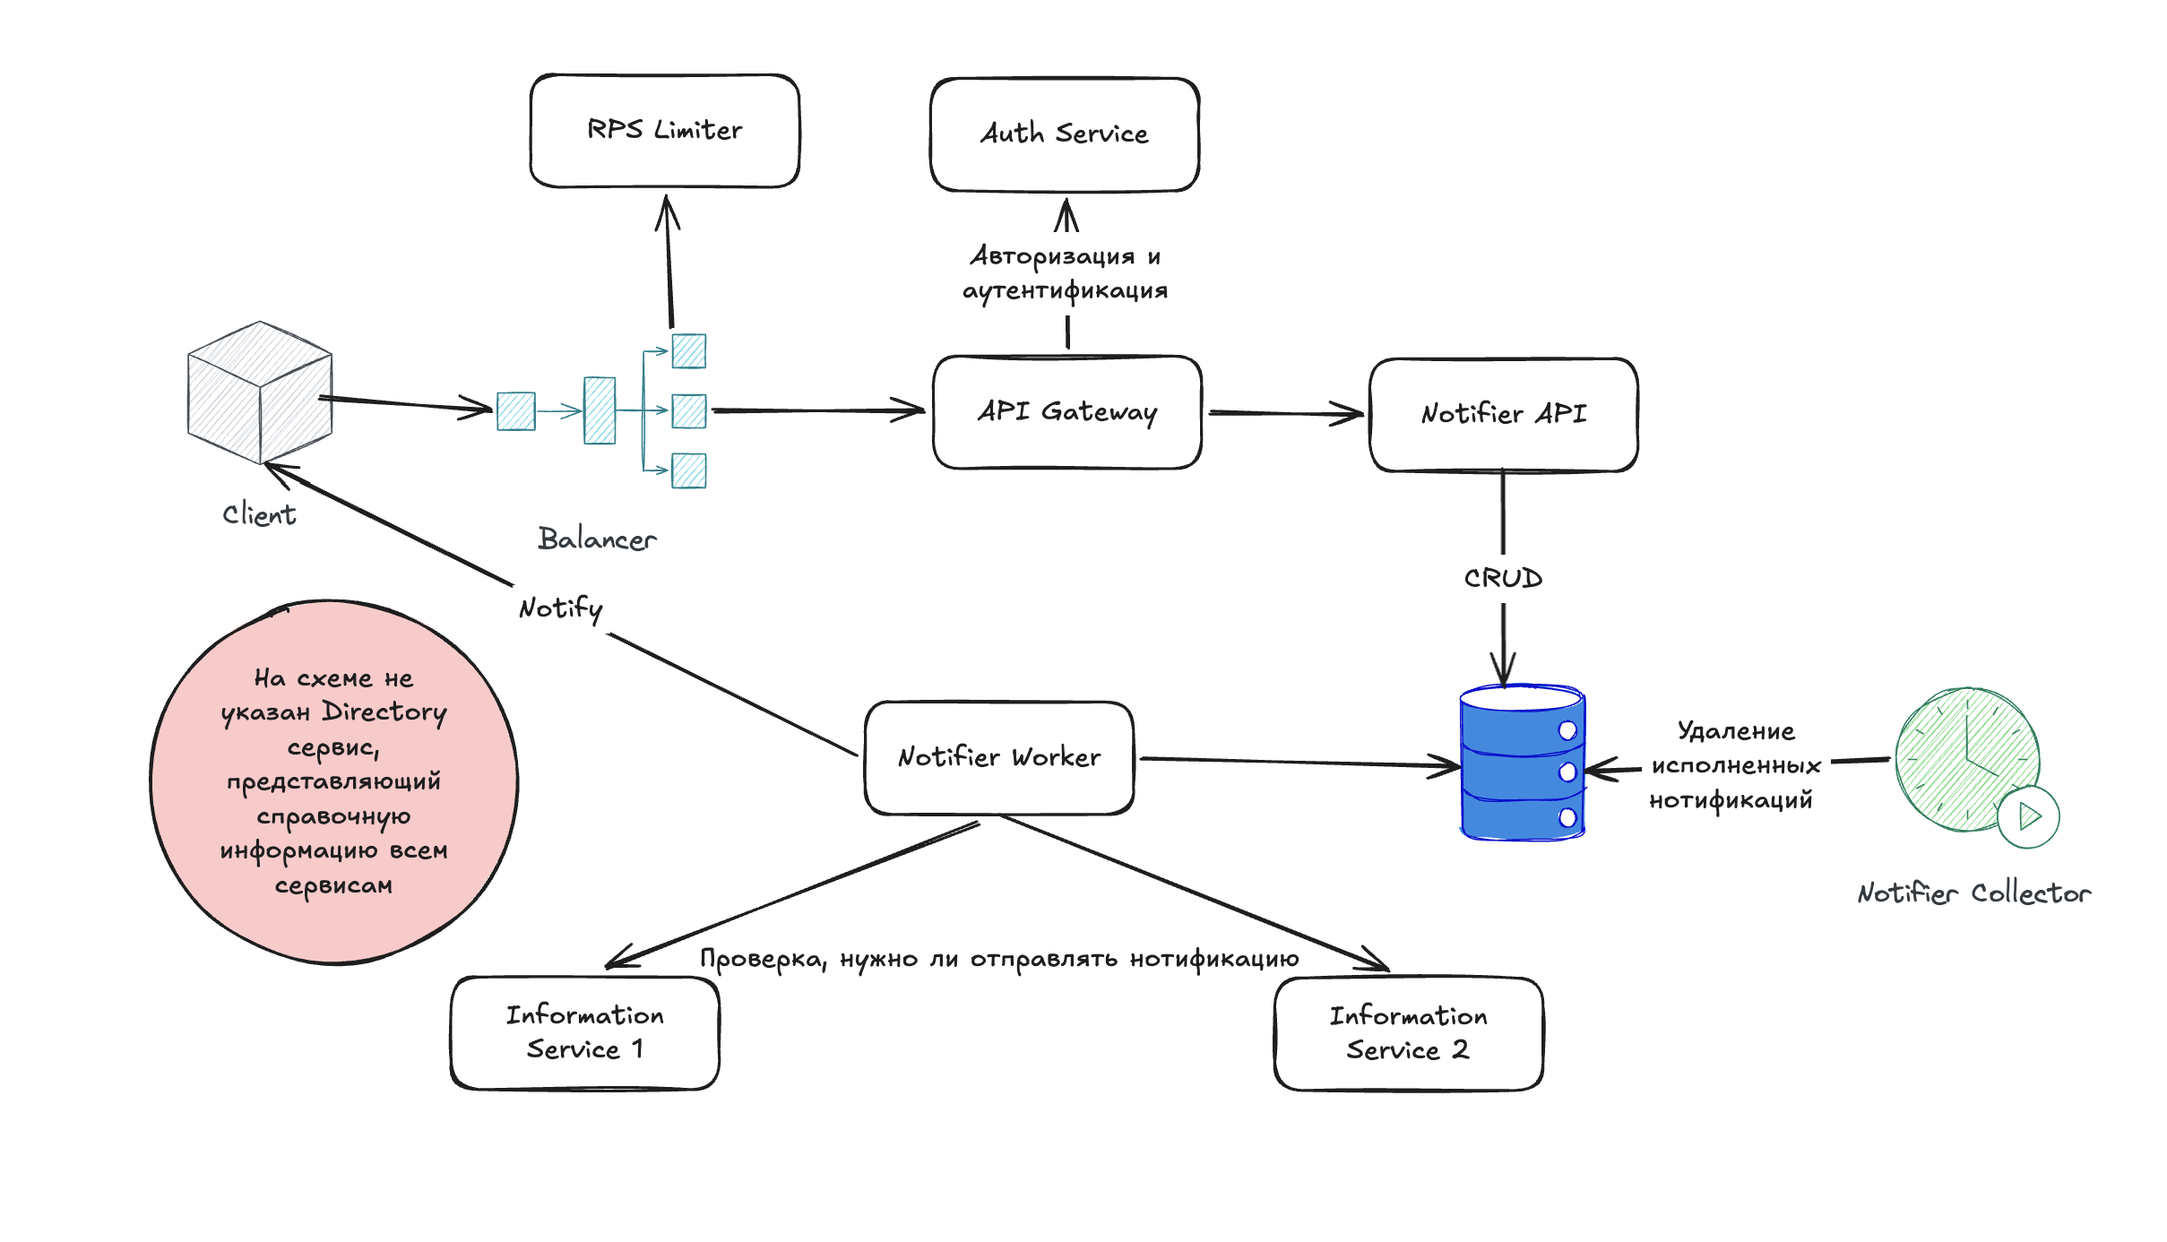
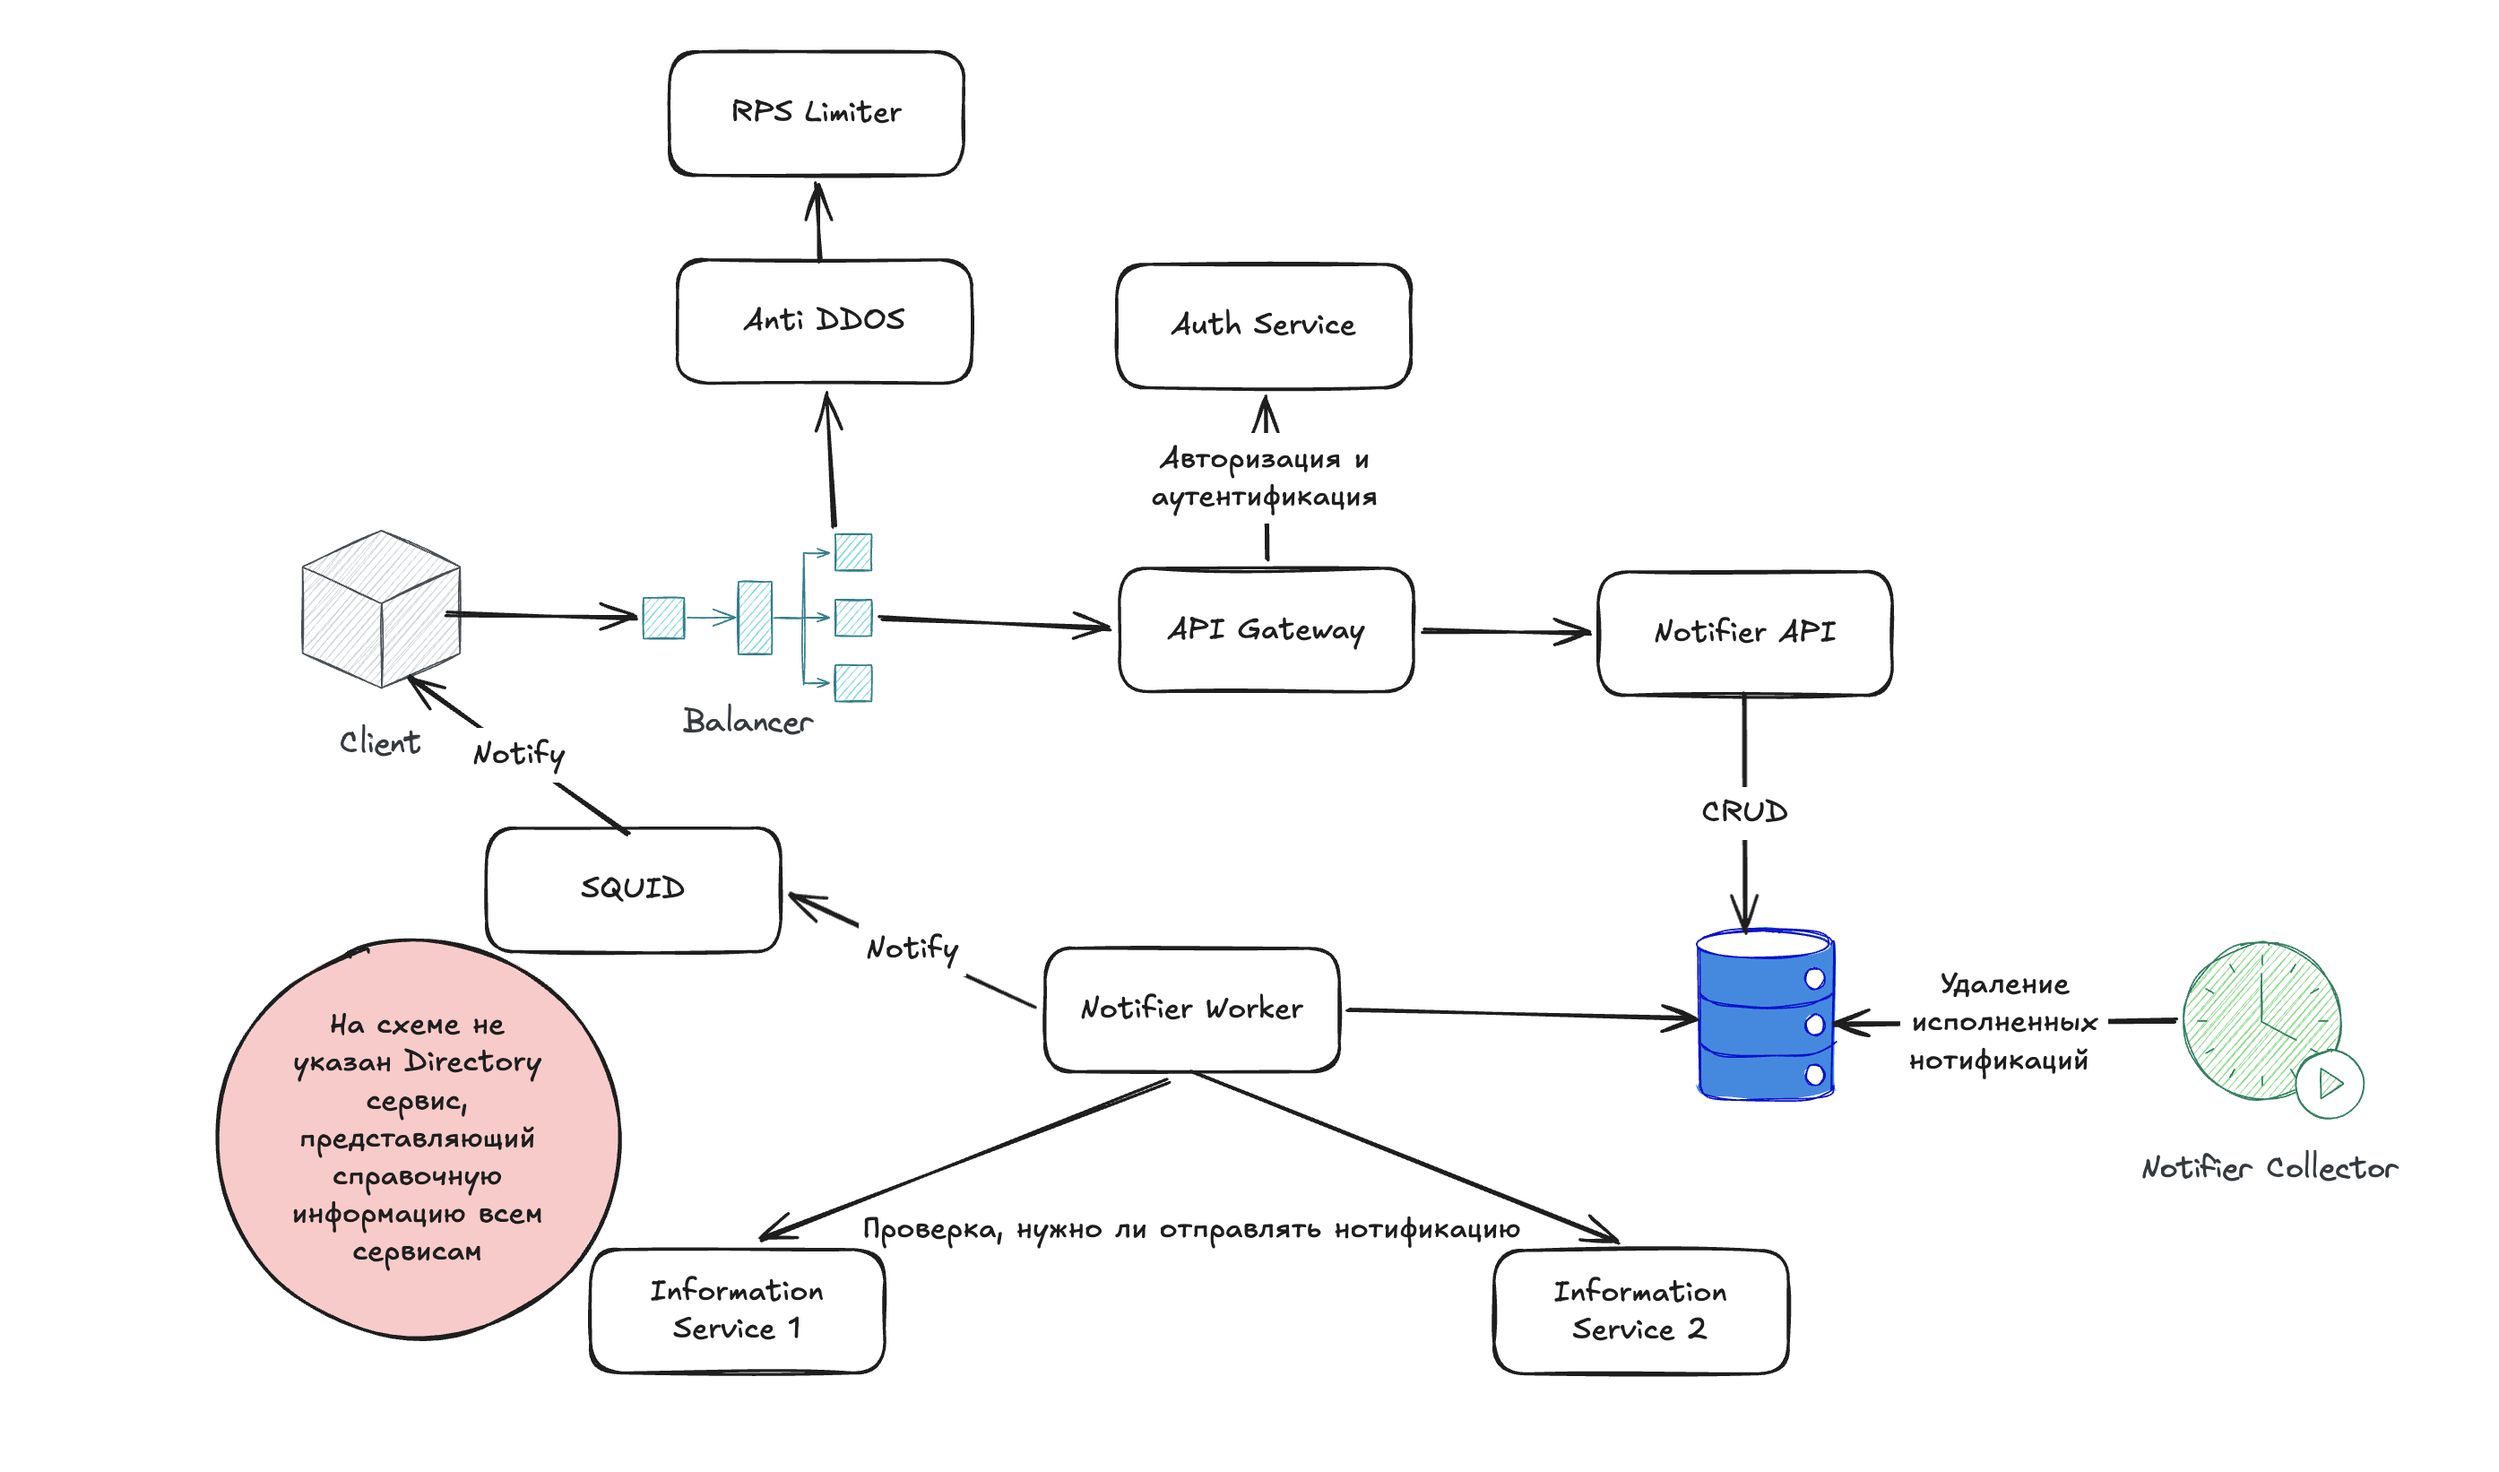
Update architecture documentation and outline scaling options

diff --git a/README.md b/README.md
@@ -8,16 +8,12 @@ Notifier отправляет клиенту HTTP-уведомление, ког
 
 На схеме показаны два источника данных — Information Service 1 и Information Service 2. Worker может опрашивать и дополнительные источники.
 
-### За рамками архитектурной схемы
-
-- Антиробот для защиты от DDoS.
-- Обязательный прокси Squid для выхода во внешний интернет.
-
-## Компоненты
+### Компоненты
 
 | Компонент | За что отвечает |
 | --- | --- |
 | Balancer | Принимает входящий трафик. |
+| Anti DDOS | Защита от DDOS атаки. |
 | RPS Limiter | Ограничивает частоту запросов. |
 | API Gateway | Принимает входящий трафик. Занимается оркестрацией запросов, а также подготовкой запросов извне к работе с внутренними сервисами. Отправляет OAuth на проверку в Auth Service и передаёт в Notifier `X-Client-ID` и `X-Request-ID`. |
 | Auth Service | Проверяет авторизацию и аутентификацию клиента. В случае успеха обменивает credentials на `client_id` — внутренний идентификатор клиента. |
@@ -26,6 +22,7 @@ Notifier отправляет клиенту HTTP-уведомление, ког
 | Notifier Worker | С заданной периодичностью проверяет условия отправки нотификаций, а также занимается их отправкой. |
 | Notifier Collector | Пакетно удаляет остановленные нотификации. |
 | Directory | Распространяет справочные данные по сервисам платформы. В целевой схеме потребители получают их в память. |
+| SQUID | Прокси для ограничения походов в дикий интернет. |
 
 **Доставка рассчитана на at-least-once.** Клиент может получить повторный вызов с тем же `notification_id`, например если обработал уведомление, а Worker не получил ответ. При исчерпании повторов задача завершается с ошибкой доставки.
 
@@ -238,6 +235,7 @@ sequenceDiagram
 | --- | --- |
 | Входящие запросы | Вызов идёт напрямую в Notifier API с заголовком `X-Client-ID`. OAuth сервиса и API Gateway нет |
 | Справочные данные | Directory за рамками прототипа, поэтому используется таблица `t_client` внутри сервиса. В ней у каждого клиента задан максимальный срок жизни нотификации (обязателен; `deadline_dt` не может быть позже `start_dt` плюс этот срок, чтобы нотификации не жили вечно), а также можно переопределить таймаут ответа клиента при доставке (по умолчанию 1 с). |
+| Хранение секретов | Отсутсвует интеграция с Valt так как проект локальный. Перед запуском в prod - необходимо настроить сборку так, чтоб пароли к БД брались из Valt |
 | Проверка условия | Вместо Information Services используется эмулятор. |
 | Эксплуатация | За рамками прототипа остались трассировка, мониторинг, Sentry, Vault, динамическая конфигурация и эксперименты. |
 | Сборка и поставка | Предусмотрена локальная сборка Docker-образа. CI/CD за рамками прототипа. |
@@ -305,3 +303,16 @@ make down      # остановить стенд, сохранив данные
 ├── CLAUDE.md                          # Подключает AGENTS.md для Claude Code
 └── README.md                          # Этот файл
 ```
+
+## Потенциал для масштабирования архитектуры
+
+### Шардирование PostgreSQL по client_id
+Можно сделать практически бесконечное горизонтальное масштабирование, отселяя отдельных больших клиентов или десятки маленьких по отдельным базам. Хранить связку shard - client_id можно или в directory или сделать еще одну базу оркестратора
+
+### Холодное хранилище старых нотификаций
+В Collector в место удаления нотификаций можно перекладывать их в долгосрочное хранилище. Откуда при желании нотификацию можно восстановить в горячее или сразу дать по ней статус. В качестве такого хранилища можно использовать, например: YTsaurus
+
+## Идеи для дальнейшего развития
+1. Батчевые ручки работы с нотификациями
+2. Эксперимент перехода с pull схемы работы с нотификациями в worker на push модель используя pg_cron + notify
+3. Сделать механизм нагрузочного тестирования в Docker и ai скилл для запуска и  сверки утилизации ресурсов и времени ответа ручек
